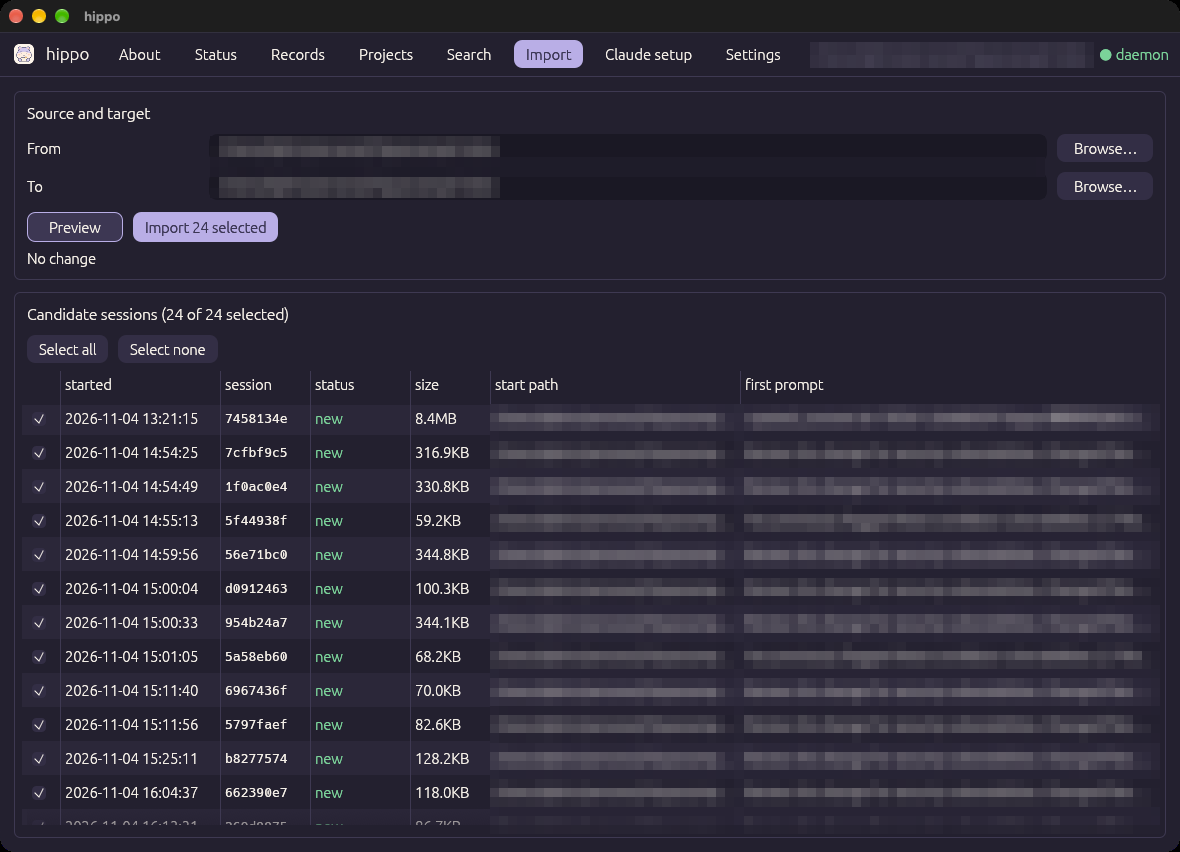
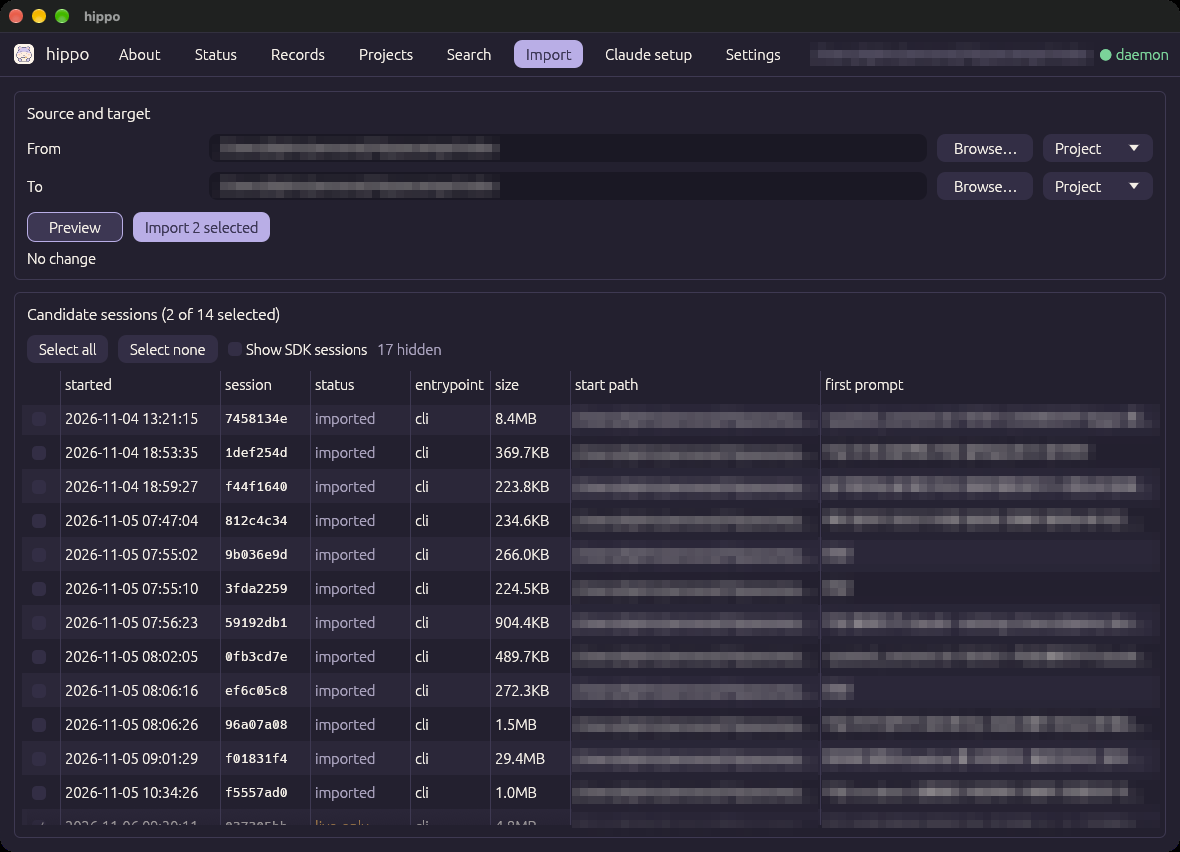
fix: 가져오기 탭 한국어 후보 세션 제목의 후보 수와 선택 수가 뒤바뀌어 표시되던 문제 수정, 가져오기 탭 스크린샷 갱신

diff --git a/src/gui/app.rs b/src/gui/app.rs
@@ -1210,7 +1210,7 @@ impl App {
             let title = tr!(
                 lang,
                 "Candidate sessions ({} of {} selected)",
-                "후보 세션 ({}개 중 {}개 선택)",
+                "후보 세션 ({1}개 중 {0}개 선택)",
                 self.import.selected_ids().len(),
                 self.import.visible_count()
             );
